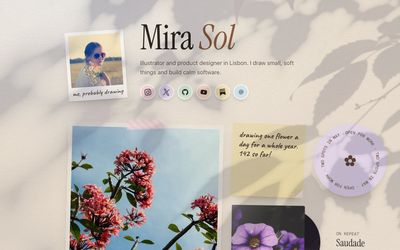
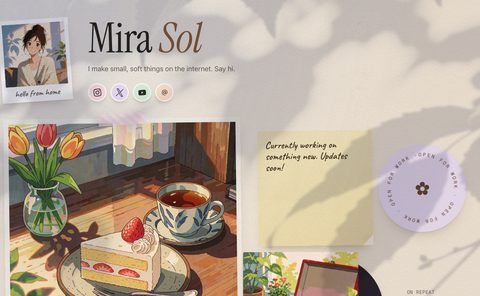
Painted placeholder art for every look's starter page

diff --git a/src/lib/templates.ts b/src/lib/templates.ts
@@ -8,11 +8,18 @@ export const TEMPLATES = {
   night: { label: 'Lofi', note: 'A desktop left open' },
   creator: { label: 'Minimal', note: 'Ink and paper, photos in 1-bit' },
   links: { label: 'Links', note: 'A clean list, like Linktree' },
+  press: { label: 'Press', note: 'A weekend paper' },
+  gallery: { label: 'Gallery', note: 'Work on the wall' },
+  painted: { label: 'Painted', note: 'A watercolour sky' },
+  neon: { label: 'Night', note: 'Neon after rain' },
   blank: { label: 'Blank', note: 'Start from nothing' },
 } as const;
 export type TemplateId = keyof typeof TEMPLATES;
 
 const ids = (tiles: Record<string, unknown>[]) => tiles.map(t => ({ ...t, id: newId() }));
+/** Painted placeholder art for each look (public/looks/<look>/). */
+const art = (look: string, name: string) => `/looks/${look}/${name}.jpg`;
+const VIDEO = 'https://www.youtube.com/watch?v=jfKfPfyJRdk';
 
 /** Starter pages. Links point to the platforms' home pages until the user edits them. */
 export function template(id: TemplateId, name: string): Page {
@@ -21,69 +28,69 @@ export function template(id: TemplateId, name: string): Page {
   switch (id) {
     case 'desk':
       return parsePage({
-        profile: { ...profile, bio: 'I make small, soft things on the internet. Say hi.', location: 'hello from home' },
+        profile: { ...profile, avatar: art('desk', 'avatar'), bio: 'I make small, soft things on the internet. Say hi.', location: 'hello from home' },
         theme: { style: 'cozy', preset: 'cream', font: 'editorial', layout: 'canvas', avatar: 'square' },
         tiles: ids([
           { type: 'social', platform: 'instagram', handle: 'yourname', size: 's' },
           { type: 'social', platform: 'x', handle: 'yourname', size: 's' },
           { type: 'social', platform: 'youtube', handle: 'yourname', size: 's' },
           { type: 'social', platform: 'email', handle: 'you@example.com', size: 's' },
-          { type: 'image', src: '/samples/flowers.jpg', caption: 'spring, again ✿', size: 'l' },
+          { type: 'image', src: art('desk', 'photo1'), caption: 'spring, again ✿', size: 'l' },
           { type: 'text', text: 'Currently working on something new. Updates soon!', size: 's' },
           { type: 'text', text: 'Open for work', look: 'stamp', color: 'lilac', size: 's' },
-          { type: 'music', url: 'https://open.spotify.com/', title: 'My song of the week', artist: 'Spotify', image: '/samples/petunia.jpg', size: 'w' },
+          { type: 'music', url: 'https://open.spotify.com/', title: 'My song of the week', artist: 'Spotify', image: art('desk', 'music'), size: 'w' },
           { type: 'heading', text: 'things I make' },
-          { type: 'link', url: 'https://substack.com', title: 'My newsletter', description: 'Dear friend, this week I tried something new…', image: '/samples/tea.jpg', size: 'w' },
-          { type: 'link', url: 'https://example.com', title: 'My website', size: 'w' },
-          { type: 'link', url: 'https://gumroad.com', title: 'Shop', image: '/samples/berries.jpg', size: 's' },
-          { type: 'image', src: '/samples/lemon.jpg', caption: 'lately', size: 's' },
+          { type: 'link', url: 'https://substack.com', title: 'My newsletter', description: 'Dear friend, this week I tried something new…', image: art('desk', 'cover'), size: 'w' },
+          { type: 'link', url: 'https://example.com', title: 'My website', description: 'Portfolio, shop and the odd blog post', size: 'w' },
+          { type: 'link', url: 'https://gumroad.com', title: 'Shop', image: art('desk', 'photo2'), size: 's' },
+          { type: 'image', src: art('desk', 'video'), caption: 'lately', size: 's' },
         ]),
       });
     case 'writer':
       return parsePage({
-        profile: { ...profile, bio: 'Writer and editor. Essays about small things, mostly.', location: 'Lisbon' },
+        profile: { ...profile, avatar: art('washi', 'avatar'), bio: 'Writer and editor. Essays about small things, mostly.', location: 'Lisbon' },
         theme: { style: 'washi', preset: 'kinari', font: 'washi', layout: 'bento', avatar: 'square' },
         tiles: ids([
           { type: 'social', platform: 'substack', handle: 'yourname', size: 's' },
           { type: 'social', platform: 'x', handle: 'yourname', size: 's' },
           { type: 'social', platform: 'email', handle: 'you@example.com', size: 's' },
-          { type: 'link', url: 'https://substack.com', title: 'The newsletter', description: 'A letter every other Sunday about the things I noticed.', image: '/samples/tea.jpg', size: 'l' },
+          { type: 'link', url: 'https://substack.com', title: 'The newsletter', description: 'A letter every other Sunday about the things I noticed.', image: art('washi', 'cover'), size: 'l' },
           { type: 'text', text: 'The best ideas arrive on long walks.', size: 'w' },
-          { type: 'link', url: 'https://example.com/essays', title: 'Selected essays', description: 'Ten pieces I still like', size: 'w' },
+          { type: 'link', url: 'https://example.com/essays', title: 'Selected essays', description: 'Ten pieces I still like', image: art('washi', 'photo1'), size: 'w' },
           { type: 'heading', text: 'Elsewhere' },
-          { type: 'image', src: '/samples/lemon.jpg', caption: 'Notes from the kitchen', size: 's' },
-          { type: 'link', url: 'https://example.com', title: 'Talks and interviews', size: 's' },
+          { type: 'image', src: art('washi', 'photo2'), caption: 'Notes from the kitchen', size: 's' },
+          { type: 'link', url: 'https://example.com', title: 'Talks and interviews', image: art('washi', 'video'), size: 'w' },
         ]),
       });
     case 'night':
       return parsePage({
-        profile: { ...profile, bio: 'Building weird things after dark. Synths, shaders, side projects.', location: 'online now' },
+        profile: { ...profile, avatar: art('lofi', 'avatar'), bio: 'Building weird things after dark. Synths, shaders, side projects.', location: 'online now' },
         theme: { style: 'lofi', preset: 'daydream', font: 'lofi', layout: 'canvas' },
         // A collage: windows overlap and lean a little, like a desktop left open.
         tiles: ids([
           { type: 'social', platform: 'github', handle: 'yourname', size: 's' },
           { type: 'social', platform: 'x', handle: 'yourname', size: 's' },
           { type: 'social', platform: 'youtube', handle: 'yourname', size: 's' },
-          { type: 'image', src: '/samples/flowers.jpg', caption: 'render_042.png', size: 'l', pos: { x: 16, y: 40, w: 600, h: 452, r: -1.5, z: 1 } },
+          { type: 'image', src: art('lofi', 'photo1'), caption: 'render_042.png', size: 'l', pos: { x: 16, y: 40, w: 600, h: 452, r: -1.5, z: 1 } },
           { type: 'text', text: 'Now: shipping a tiny synth in the browser.', size: 's', pos: { x: 560, y: 0, w: 300, h: 232, r: 2.5, z: 3 } },
           { type: 'github', repo: 'vercel/next.js', size: 's', pos: { x: 900, y: 56, w: 284, h: 284, r: -2, z: 2 } },
-          { type: 'music', url: 'https://open.spotify.com/', title: 'Night drive', artist: 'Spotify', image: '/samples/petunia.jpg', size: 'w', pos: { x: 640, y: 300, w: 544, h: 252, r: 1, z: 4 } },
-          { type: 'link', url: 'https://example.com', title: 'Devlog', description: 'What I built this week', size: 'w', pos: { x: 96, y: 520, w: 480, h: 228, r: 1.5, z: 5 } },
+          { type: 'music', url: 'https://open.spotify.com/', title: 'Night drive', artist: 'Spotify', image: art('lofi', 'music'), size: 'w', pos: { x: 640, y: 300, w: 544, h: 252, r: 1, z: 4 } },
+          { type: 'link', url: 'https://example.com', title: 'Devlog', description: 'What I built this week', image: art('lofi', 'cover'), size: 'w', pos: { x: 96, y: 520, w: 480, h: 228, r: 1.5, z: 5 } },
         ]),
       });
     case 'creator':
       return parsePage({
-        profile: { ...profile, bio: 'Making things on the internet. Say hi.' },
+        profile: { ...profile, avatar: art('minimal', 'avatar'), bio: 'Making things on the internet. Say hi.' },
         theme: { style: 'minimal', preset: 'paper', font: 'editorial', layout: 'bento', align: 'side' },
         tiles: ids([
           { type: 'social', platform: 'instagram', handle: 'yourname', size: 's' },
           { type: 'social', platform: 'youtube', handle: 'yourname', size: 's' },
-          { type: 'image', src: '/samples/flowers.jpg', caption: 'lately', size: 'l' },
+          { type: 'image', src: art('minimal', 'photo1'), caption: 'lately', size: 'l' },
           { type: 'text', text: 'Currently working on **something new**. Updates soon.', size: 'w' },
           { type: 'heading', text: 'Latest' },
-          { type: 'link', url: 'https://example.com', title: 'My latest project', description: 'What I made this month', image: '/samples/tea.jpg', size: 'w' },
-          { type: 'music', url: 'https://open.spotify.com/', title: 'On repeat', artist: 'Spotify', image: '/samples/petunia.jpg', size: 'w' },
-          { type: 'image', src: '/samples/lemon.jpg', size: 's' },
+          { type: 'link', url: 'https://example.com', title: 'My latest project', description: 'What I made this month', image: art('minimal', 'cover'), size: 'w' },
+          { type: 'music', url: 'https://open.spotify.com/', title: 'On repeat', artist: 'Spotify', image: art('minimal', 'music'), size: 'w' },
+          { type: 'image', src: art('minimal', 'photo2'), size: 's' },
           { type: 'social', platform: 'email', handle: 'you@example.com', size: 's' },
         ]),
       });
@@ -112,13 +119,92 @@ export function template(id: TemplateId, name: string): Page {
           { type: 'link', url: 'https://example.com/shop', title: 'Shop', size: 's' },
         ]),
       });
+    case 'press':
+      return parsePage({
+        profile: { ...profile, avatar: art('press', 'avatar'), bio: 'Writer and podcaster. A letter every Sunday about what I read, cooked and noticed.', location: 'Sunday edition' },
+        theme: { style: 'press', preset: 'newsprint', font: 'press', layout: 'bento', avatar: 'circle' },
+        tiles: ids([
+          { type: 'social', platform: 'substack', handle: 'yourname', size: 's' },
+          { type: 'social', platform: 'x', handle: 'yourname', size: 's' },
+          { type: 'social', platform: 'email', handle: 'you@example.com', size: 's' },
+          { type: 'link', url: 'https://example.com/essays/by-hand', title: 'Why I write everything by hand first', description: 'On slow drafts, fast coffee and the joy of crossing things out.', image: art('press', 'cover'), size: 'l' },
+          { type: 'link', url: 'https://substack.com', title: 'The Sunday Edition', description: 'One letter a week. No noise, just the good bits.', size: 'w' },
+          { type: 'text', text: 'Write the thing you wish someone had written for you.', size: 'w' },
+          { type: 'heading', text: 'The podcast' },
+          { type: 'video', url: VIDEO, title: 'Small towns, big stories', image: art('press', 'video'), size: 'w' },
+          { type: 'music', url: 'https://open.spotify.com/', title: 'Desk radio', artist: 'A playlist for writing', image: art('press', 'music'), size: 'w' },
+          { type: 'image', src: art('press', 'photo1'), caption: 'The corner newsstand, Saturday morning', size: 'w' },
+          { type: 'link', url: 'https://gumroad.com', title: 'Zine back issues', description: 'Printed, stapled, posted by hand', size: 's' },
+          { type: 'text', text: 'Taking pitches', look: 'stamp', size: 's' },
+        ]),
+      });
+    case 'gallery':
+      return parsePage({
+        profile: { ...profile, avatar: art('gallery', 'avatar'), bio: 'Paintings about small, quiet afternoons.', location: 'Studio in Porto' },
+        theme: { style: 'gallery', preset: 'white-cube', font: 'gallery', layout: 'bento', avatar: 'square' },
+        tiles: ids([
+          { type: 'social', platform: 'instagram', handle: 'yourname', size: 's' },
+          { type: 'social', platform: 'behance', handle: 'yourname', size: 's' },
+          { type: 'social', platform: 'email', handle: 'you@example.com', size: 's' },
+          { type: 'image', src: art('gallery', 'photo1'), caption: 'Kite Hill, gouache', size: 'l' },
+          { type: 'image', src: art('gallery', 'photo2'), caption: 'Afternoon nap, risograph', size: 's' },
+          { type: 'text', text: 'Available for commissions', look: 'stamp', size: 's' },
+          { type: 'text', text: 'I paint the quiet parts of the day.', size: 'w' },
+          { type: 'heading', text: 'New work' },
+          { type: 'link', url: 'https://example.com/seaside', title: 'Seaside', description: 'Twelve oil paintings, spring 2026', image: art('gallery', 'cover'), size: 'w' },
+          { type: 'music', url: 'https://open.spotify.com/', title: 'Painting playlist', artist: 'Spotify', image: art('gallery', 'music'), size: 's' },
+          { type: 'link', url: 'https://buttondown.email', title: 'Studio letters', description: 'New work, once a month', size: 's' },
+          { type: 'video', url: VIDEO, title: 'A day in the studio', image: art('gallery', 'video'), size: 'w' },
+          { type: 'link', url: 'https://gumroad.com', title: 'Print shop', description: 'Signed giclée prints', size: 'w' },
+        ]),
+      });
+    case 'painted':
+      return parsePage({
+        profile: { ...profile, avatar: art('painted', 'avatar'), bio: 'Drawing a little world, one page at a time. Picture books, prints and the odd kite.', location: 'somewhere above the clouds' },
+        theme: { style: 'painted', preset: 'morning', font: 'painted', layout: 'bento', avatar: 'circle' },
+        tiles: ids([
+          { type: 'social', platform: 'instagram', handle: 'yourname', size: 's' },
+          { type: 'social', platform: 'youtube', handle: 'yourname', size: 's' },
+          { type: 'social', platform: 'email', handle: 'you@example.com', size: 's' },
+          { type: 'image', src: art('painted', 'photo1'), caption: 'the island, again', size: 'l' },
+          { type: 'text', text: 'Hello! New pages every Sunday. Thank you for reading.', size: 's' },
+          { type: 'text', text: 'Open for commissions', look: 'stamp', size: 's' },
+          { type: 'music', url: 'https://open.spotify.com/', title: 'Songs for drawing', artist: 'Spotify', image: art('painted', 'music'), size: 'w' },
+          { type: 'heading', text: 'Stories' },
+          { type: 'link', url: 'https://example.com/rooftop', title: 'Letters from the rooftop', description: "A picture book I'm making, a page a week.", image: art('painted', 'cover'), size: 'w' },
+          { type: 'link', url: 'https://substack.com', title: 'The kite post', description: 'A painted letter every month', size: 's' },
+          { type: 'image', src: art('painted', 'photo2'), caption: 'studio cat', size: 's' },
+          { type: 'video', url: VIDEO, title: 'How I paint skies', image: art('painted', 'video'), size: 'w' },
+          { type: 'link', url: 'https://etsy.com', title: 'Prints', description: 'Small runs, signed', size: 'w' },
+        ]),
+      });
+    case 'neon':
+      return parsePage({
+        profile: { ...profile, avatar: art('night', 'avatar'), bio: 'Late sets and slow beats. Live every Friday after midnight.', location: 'live fridays' },
+        theme: { style: 'night', preset: 'neon', font: 'night', layout: 'bento', avatar: 'squircle' },
+        tiles: ids([
+          { type: 'social', platform: 'twitch', handle: 'yourname', size: 's' },
+          { type: 'social', platform: 'soundcloud', handle: 'yourname', size: 's' },
+          { type: 'social', platform: 'instagram', handle: 'yourname', size: 's' },
+          { type: 'social', platform: 'discord', handle: 'yourname', size: 's' },
+          { type: 'image', src: art('night', 'photo1'), caption: 'the walk home, 2 a.m.', size: 'l' },
+          { type: 'text', text: 'Live tonight', look: 'stamp', size: 's' },
+          { type: 'text', text: 'Bring headphones. Stay till sunrise.', size: 's' },
+          { type: 'music', url: 'https://open.spotify.com/', title: 'Midnight mix vol. 3', artist: 'Spotify', image: art('night', 'music'), size: 'w' },
+          { type: 'heading', text: 'This week' },
+          { type: 'video', url: VIDEO, title: 'Arcade sessions, ep. 7', image: art('night', 'video'), size: 'w' },
+          { type: 'link', url: 'https://example.com/tapes', title: 'Rooftop tapes', description: 'New EP, out now', image: art('night', 'cover'), size: 'w' },
+          { type: 'link', url: 'https://shop.example.com', title: 'Merch', description: 'Hoodies, tapes, stickers', size: 's' },
+          { type: 'image', src: art('night', 'photo2'), caption: 'the booth', size: 's' },
+        ]),
+      });
     default:
       return parsePage({ profile, theme: { style: 'cozy', preset: 'cream', font: 'editorial', layout: 'bento' }, tiles: [] });
   }
 }
 
 /** The sample content shown for each style when you start from it. */
-export const STYLE_STARTERS: Record<StyleId, TemplateId> = { cozy: 'desk', minimal: 'creator', washi: 'writer', lofi: 'night' };
+export const STYLE_STARTERS: Record<StyleId, TemplateId> = { cozy: 'desk', minimal: 'creator', washi: 'writer', lofi: 'night', press: 'press', gallery: 'gallery', painted: 'painted', night: 'neon' };
 
 /** A new page from independent choices: style, layout and colours (plus sample content or an empty page). */
 export function starterPage(o: { name: string; style: StyleId; layout?: 'bento' | 'list' | 'canvas'; preset?: string; empty?: boolean }): Page {

diff --git a/public/looks/CREDITS.md b/public/looks/CREDITS.md
@@ -28,3 +28,7 @@ Made for Posy with Krea 2 Turbo (open weights, Krea 2 Community License; Krea cl
 | lofi/train-sunset.jpg | An empty train carriage at sunset by the sea (Lofi, Last train palette) |
 | ../samples/posy.jpg | A watercolour posy, the starter avatar on new pages |
 | desk/leaves.jpg | Afternoon light through leaves on a white wall, turned into a shadow map (Desk) |
+| painted/sky-*.jpg | Watercolour skies, one per Painted palette (morning, golden hour, dusk, starry) |
+| night/bg-street.jpg | A rainy neon alley at night, shown blurred behind the Night look |
+| painted/deckle.png, painted/blob.png | Torn-paper edge and painted-blob masks, drawn procedurally for Posy |
+| {desk,minimal,press,gallery,washi,lofi,painted,night}/{avatar,photo1,photo2,cover,music,video}.jpg | Placeholder pictures for each look's starter page, painted in that look's style |
